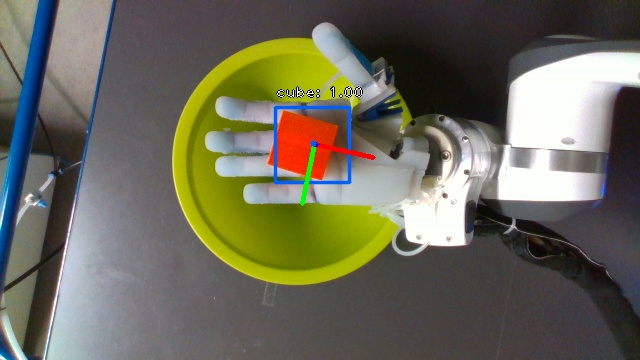
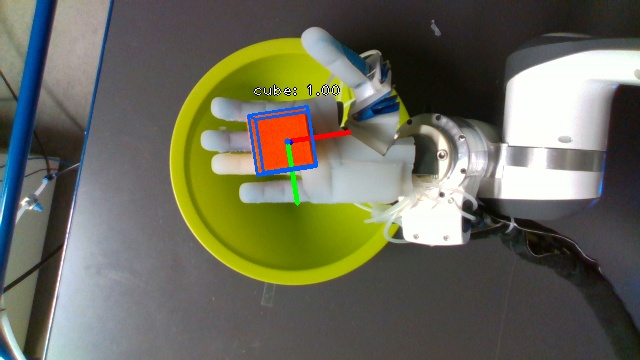
mini changes

diff --git a/inference_webcam_realsense.py b/inference_webcam_realsense.py
@@ -118,7 +118,7 @@ def main(queues):
             
 
     #    k-=1
-    calc_fps=False
+    calc_fps=True
     if(len(queues)==0):
         calc_fps=True
     try:
@@ -136,7 +136,6 @@ def main(queues):
                 print("IM DEAD")
                 got_image = False
 
-            print("GOT IMAGE",image.shape)
             
             #scale_percent = 640./1920. # percent of original size
             #width = int(image.shape[1] * scale_percent)
@@ -156,9 +155,6 @@ def main(queues):
 
             #postprocessing
             boxes, scores, labels, rotations, translations = postprocess(boxes, scores, labels, rotations, translations, scale, score_threshold)
-            print("GOT Predictions",boxes)
-            if(boxes.shape[0]>0 and init_distance==0):
-                init_distance = np.linalg.norm(translations)
 
             draw_detections(original_image,
                             boxes,
@@ -169,7 +165,7 @@ def main(queues):
                             class_to_bbox_3D = class_to_3d_bboxes,
                             camera_matrix = camera_matrix,
                             label_to_name = class_to_name,
-                            draw_bbox_2d = draw_bbox_2d,
+                            draw_bbox_2d = False,
                             draw_axis = True,
                             draw_name = draw_name)
 
@@ -202,7 +198,7 @@ def main(queues):
                 #    original_image = cv2.putText(original_image, 'Dropped', org1, font, 
                 #        fontScale, color, thickness, cv2.LINE_AA)
             #display image with predictions
-            print("Starting the tread",len(queues))
+           
             if(len(queues)==2):
                 # Input fresh data
                 ts = int(time.time()*1000.)
@@ -219,8 +215,7 @@ def main(queues):
                 #images to the given path
                 os.makedirs(save_path, exist_ok = True)
                 cv2.imwrite(os.path.join(save_path, "frame_{}".format(i) + image_extension), original_image)
-                
-            print("Done")
+
             if(calc_fps):
                 end_time = time.time()*1000.
                 print("FPS",1000/(end_time-start_time))

diff --git a/view.py b/view.py
@@ -39,9 +39,31 @@ def make_realsense():
     # Start streaming
     pipeline.start(config)
     return pipeline
+def draw_rectangle(image, centre, theta, width, height):
+    theta = np.radians(theta)
+    c, s = np.cos(theta), np.sin(theta)
+    R = np.matrix('{} {}; {} {}'.format(c, -s, s, c))
+    # print(R)
+    print(centre[0])
+    p1 = [ + width / 2,  + height / 2]
+    p2 = [- width / 2,  + height / 2]
+    p3 = [ - width / 2, - height / 2]
+    p4 = [ + width / 2,  - height / 2]
+    p1_new = np.dot(p1, R)+ centre
+    p2_new = np.dot(p2, R)+ centre
+    p3_new = np.dot(p3, R)+ centre
+    p4_new = np.dot(p4, R)+ centre
+    print(p1_new)
+    img = cv2.line(image, (int(p1_new[0, 0]), int(p1_new[0, 1])), (int(p2_new[0, 0]), int(p2_new[0, 1])), (255, 0, 0), 1)
+    img = cv2.line(img, (int(p2_new[0, 0]), int(p2_new[0, 1])), (int(p3_new[0, 0]), int(p3_new[0, 1])), (255, 0, 0), 1)
+    img = cv2.line(img, (int(p3_new[0, 0]), int(p3_new[0, 1])), (int(p4_new[0, 0]), int(p4_new[0, 1])), (255, 0, 0), 1)
+    img = cv2.line(img, (int(p4_new[0, 0]), int(p4_new[0, 1])), (int(p1_new[0, 0]), int(p1_new[0, 1])), (255, 0, 0), 1)
+    img = cv2.line(img, (int(p2_new[0, 0]), int(p2_new[0, 1])), (int(p4_new[0, 0]), int(p4_new[0, 1])), (255, 0, 0), 1)
+    img = cv2.line(img, (int(p1_new[0, 0]), int(p1_new[0, 1])), (int(p3_new[0, 0]), int(p3_new[0, 1])), (255, 0, 0), 1)
 
+pipeline = make_realsense()
 try:
-    pipeline = make_realsense()
+    i = 0
     while True:
 
         # Wait for a coherent pair of frames: depth and color
@@ -52,10 +74,15 @@ try:
         if not depth_frame or not color_frame:
             continue
         print(np.asanyarray(color_frame.get_data()).shape)
+        image = np.asanyarray(color_frame.get_data())
         # Show images
+        print(i%90)
+        draw_rectangle(image,[200,200],90-i%90,50,50)
+        i+=1
         cv2.namedWindow('RealSense', cv2.WINDOW_AUTOSIZE)
         cv2.imshow('RealSense', np.asanyarray(color_frame.get_data()))
         cv2.waitKey(1)
+
 
 finally:
 

diff --git a/utils/visualization.py b/utils/visualization.py
@@ -166,7 +166,7 @@ def draw_detections(image, boxes, scores, labels, rotations, translations, class
         if(draw_axis==True):
             image = aruco.drawAxis(image, camera_matrix, None, rotations[i, :],translation_vector, 55.1)
         points_bbox_2D = project_bbox_3D_to_2D(class_to_bbox_3D[labels[i]], rotations[i, :], translation_vector, camera_matrix, append_centerpoint = True)
-        draw_bbox_8_2D(image, points_bbox_2D, color = c,draw_3d=False)
+        draw_bbox_8_2D(image, points_bbox_2D, color = c,draw_3d=True)
         if draw_name:
             if isinstance(label_to_name, dict):
                 name = label_to_name[labels[i]] if label_to_name else labels[i]
